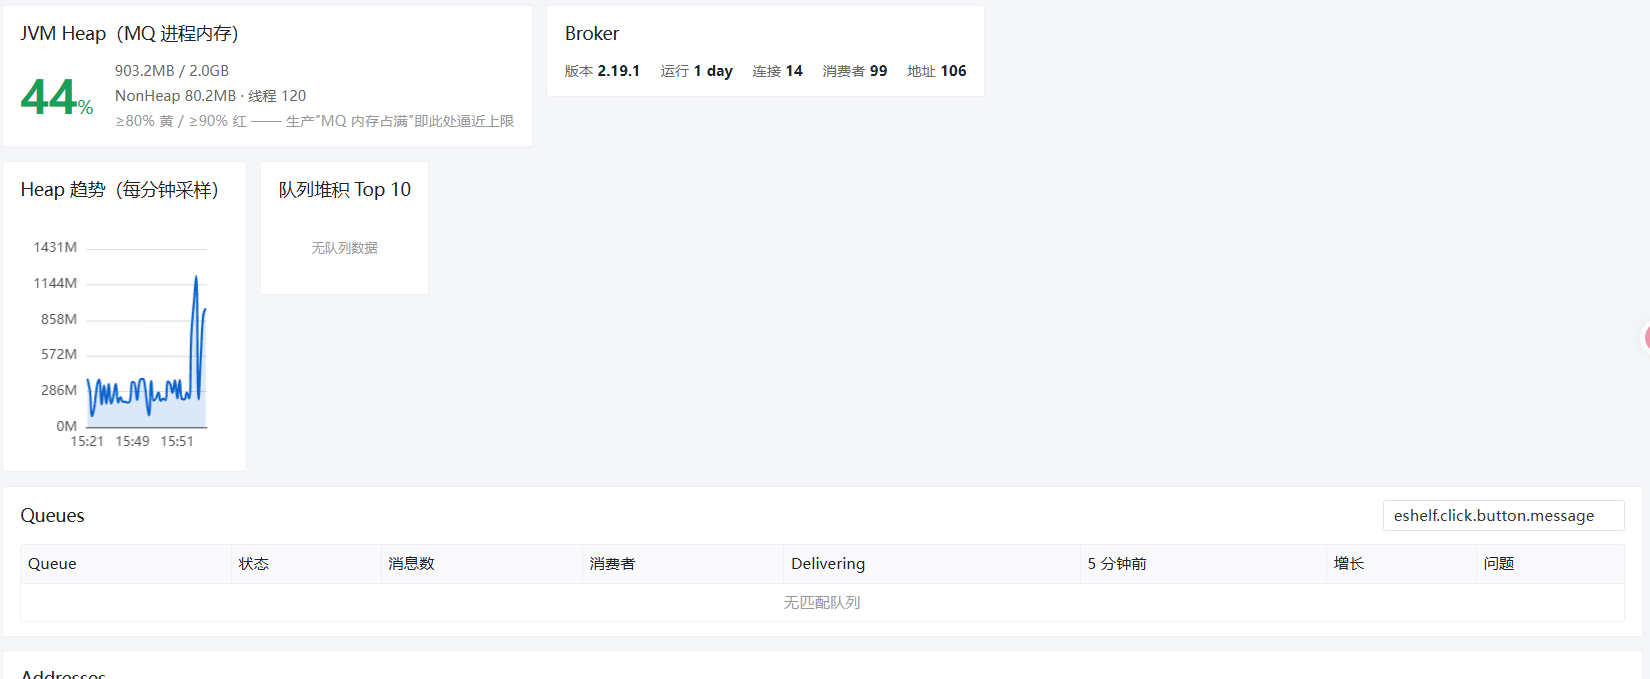
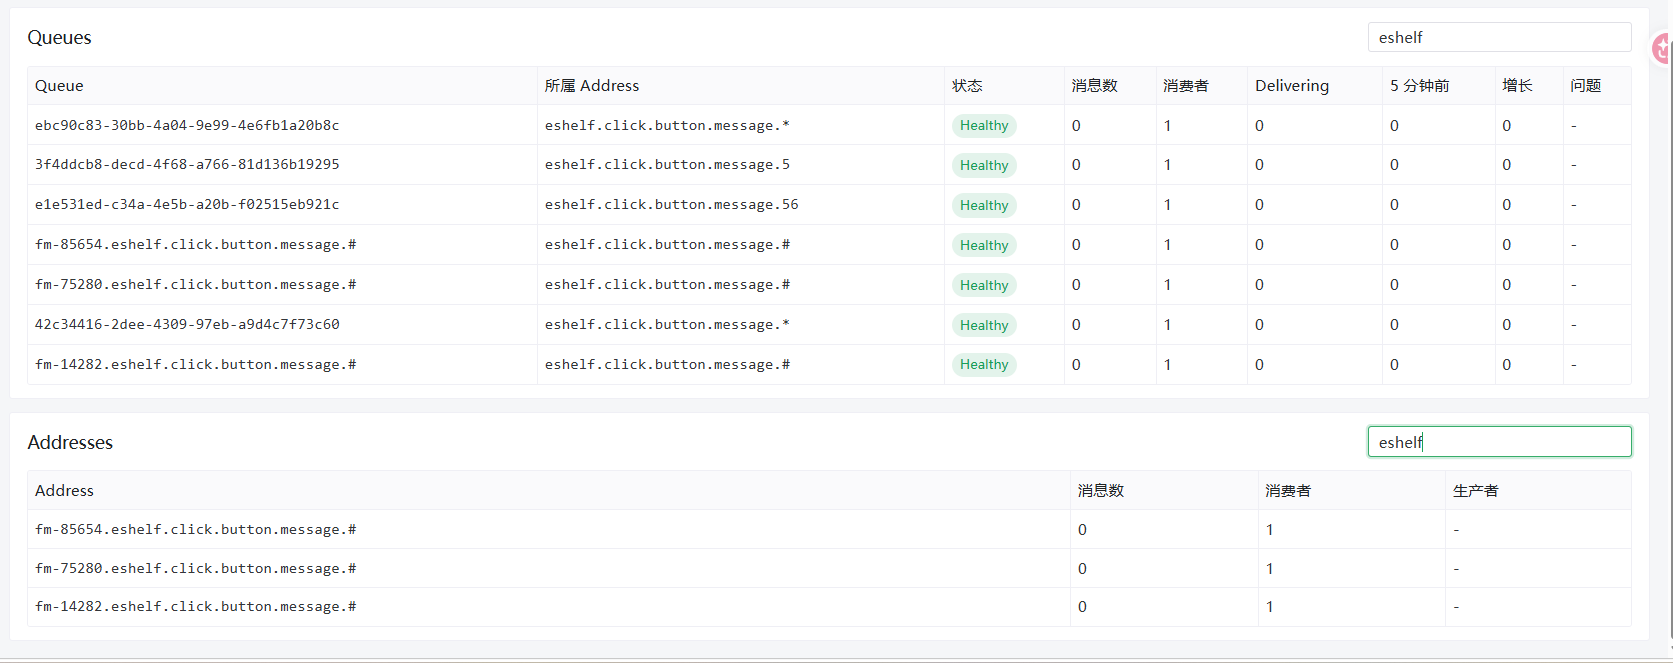
fix(samples): site-scoped sample keys + graceful degradation; mq page trims
- /api/samples returns [] on redis read failure (was 500 on platform-redis
  timeout, breaking server page polling)
- sample keys now site-scoped: server:<site>:<id>, mq:<site>:<id>[:hash] —
  cross-site same-named resource ids no longer pollute each other's trends
- MqView: Addresses card removed (redundant — queue table has 所属 Address
  column); card titles: 'Topics / Queues' + column 'Topic / Queue';
  'JVM Heap（约 5s 采样）' and plain '队列堆积 Top 10'
- user note: 'allen' site DOES have resources named '12' pointing at .12 —
  page data source was correct; manage via 站点管理 → 资源

diff --git a/frontend/src/modules/mq/MqView.vue b/frontend/src/modules/mq/MqView.vue
@@ -5,7 +5,7 @@ import BaseChart from '../../components/BaseChart.vue'
 import StatusBadge from '../../components/StatusBadge.vue'
 import { useSiteStore } from '../../stores/site'
 import { getSamples } from '../overview/api'
-import { mqApi, type AddressRow, type MqOverview, type QueueRow } from './api'
+import { mqApi, type MqOverview, type QueueRow } from './api'
 
 const siteStore = useSiteStore()
 const message = useMessage()
@@ -14,14 +14,12 @@ const instances = ref<Array<{ label: string; value: string }>>([])
 const instanceId = ref<string | null>(null)
 const overview = ref<MqOverview | null>(null)
 const queues = ref<QueueRow[]>([])
-const addresses = ref<AddressRow[]>([])
 const loading = ref(false) // 首次加载（转圈而非白屏）
 const heapSeries = ref<Array<{ ts: number; v: number }>>([])
 const loadError = ref('')
 const queuesError = ref('')
-const addressesError = ref('')
 
-/** 轮询分层：overview/heap 轻量 3s；queues/addresses 响应大，15s + 手动刷新 */
+/** 轮询分层：overview/heap 轻量 3s；queues 响应大，15s + 手动刷新 */
 async function loadLight(toastOnFail = false) {
   const siteId = siteStore.currentSiteId
   if (!siteId || !instanceId.value) return
@@ -29,7 +27,8 @@ async function loadLight(toastOnFail = false) {
     const o = await mqApi.overview(siteId, instanceId.value)
     overview.value = o
     loadError.value = ''
-    getSamples(instanceId.value, 'heap').then((s) => (heapSeries.value = [...s].reverse())).catch(() => {})
+    getSamples(`mq:${siteId}:${instanceId.value}`, 'heap')
+      .then((s) => (heapSeries.value = [...s].reverse())).catch(() => {})
   } catch (e) {
     overview.value = null
     loadError.value = (e as Error).message
@@ -47,14 +46,6 @@ async function loadHeavy() {
     queues.value = []
     queuesError.value = (e as Error).message
     message.error(`Queues 读取失败：${queuesError.value}`)
-  }
-  try {
-    addresses.value = await mqApi.addresses(siteId, instanceId.value)
-    addressesError.value = ''
-  } catch (e) {
-    addresses.value = []
-    addressesError.value = (e as Error).message
-    message.error(`Addresses 读取失败：${addressesError.value}`)
   }
 }
 
@@ -77,14 +68,14 @@ async function loadInstances() {
   }
 }
 
-/** 手动/首次：全量刷新（overview + queues + addresses，失败弹 toast） */
+/** 手动/首次：全量刷新（overview + queues，失败弹 toast） */
 async function load() {
   await loadLight(true)
   await loadHeavy()
 }
 onMounted(loadInstances)
 
-// 轮询分层：overview/heap 轻量 3s；queues/addresses 响应大 15s 一次（页面在场才轮询）
+// 轮询分层：overview/heap 轻量 3s；queues 响应大 15s 一次（页面在场才轮询）
 let pollTimer: number | null = null
 let heavyTick = 0
 
@@ -125,9 +116,8 @@ watch(() => siteStore.currentSiteId, () => {
 })
 watch(instanceId, load)
 
-// ---------- 搜索（Queues 匹配队列名+所属 Address；Addresses 匹配地址名） ----------
+// ---------- 搜索（匹配队列名 + 所属 Address，忽略大小写） ----------
 const queueFilter = ref('')
-const addressFilter = ref('')
 const filteredQueues = computed(() => {
   const needle = queueFilter.value.trim().toLowerCase()
   if (!needle) return queues.value
@@ -136,11 +126,6 @@ const filteredQueues = computed(() => {
       (q.name ?? '').toLowerCase().includes(needle) ||
       (q.address ?? '').toLowerCase().includes(needle),
   )
-})
-const filteredAddresses = computed(() => {
-  const needle = addressFilter.value.trim().toLowerCase()
-  if (!needle) return addresses.value
-  return addresses.value.filter((a) => (a.name ?? '').toLowerCase().includes(needle))
 })
 
 // ---------- 图表 ----------
@@ -259,7 +244,7 @@ const worstQueueStatus = computed(() => {
     <template v-else-if="overview">
       <div class="row">
         <!-- Heap：生产 MQ 内存问题核心指标，突出显示 + 阈值着色 -->
-        <n-card size="small" class="grow-2" title="JVM Heap（MQ 进程内存）">
+        <n-card size="small" class="grow-2" title="JVM Heap（约 5s 采样）">
           <div class="heap-row">
             <div class="heap-big" :style="{ color: pctColor(heapPct) }">
               {{ heapPct ?? '?' }}<span class="unit">%</span>
@@ -289,13 +274,13 @@ const worstQueueStatus = computed(() => {
             采样收集中，几秒后出现趋势线
           </div>
         </n-card>
-        <n-card size="small" class="grow-1" title="队列堆积 Top 10（消息数最多的队列）">
+        <n-card size="small" class="grow-1" title="队列堆积 Top 10">
           <base-chart v-if="queues.length" :option="topQueuesOption" height="300px" />
           <div v-else style="color: #999; font-size: 12px; padding: 40px 0; text-align: center">无队列数据</div>
         </n-card>
       </div>
 
-      <n-card size="small" title="Queues">
+      <n-card size="small" title="Topics / Queues">
         <template #header-extra>
           <n-input v-model:value="queueFilter" size="small" style="width: 240px"
             placeholder="模糊搜索队列名或 Address" />
@@ -304,7 +289,7 @@ const worstQueueStatus = computed(() => {
         <n-table :single-line="false" size="small">
           <thead>
             <tr>
-              <th>Queue</th><th>所属 Address</th><th>状态</th><th>消息数</th><th>消费者</th>
+              <th>Topic / Queue</th><th>所属 Address</th><th>状态</th><th>消息数</th><th>消费者</th>
               <th>Delivering</th><th>5 分钟前</th><th>增长</th><th>问题</th>
             </tr>
           </thead>
@@ -327,27 +312,6 @@ const worstQueueStatus = computed(() => {
             </tr>
             <tr v-if="!filteredQueues.length">
               <td colspan="9" style="text-align: center; color: #999">无匹配队列</td>
-            </tr>
-          </tbody>
-        </n-table>
-      </n-card>
-
-      <n-card size="small" title="Addresses">
-        <template #header-extra>
-          <n-input v-model:value="addressFilter" size="small" style="width: 240px"
-            placeholder="模糊搜索 Address / topic" />
-        </template>
-        <div v-if="addressesError" class="pane-error">Addresses 读取失败：{{ addressesError }}（每 15s 自动重试）</div>
-        <n-table :single-line="false" size="small">
-          <thead>
-            <tr><th>Address</th><th>消息数</th><th>消费者</th><th>生产者</th></tr>
-          </thead>
-          <tbody>
-            <tr v-for="a in filteredAddresses" :key="a.name">
-              <td class="mono">{{ a.name }}</td>
-              <td>{{ a.message_count ?? '-' }}</td>
-              <td>{{ a.consumer_count ?? '-' }}</td>
-              <td>{{ a.producer_count ?? '-' }}</td>
             </tr>
           </tbody>
         </n-table>

diff --git a/frontend/src/modules/server/ServerView.vue b/frontend/src/modules/server/ServerView.vue
@@ -57,8 +57,8 @@ async function load(silent = false) {
     ])
     metrics.value = m
     processes.value = p
-    // 趋势（读取时采样，3s 轮询 = 3s 一个点）
-    const rid = `server:${serverId.value}`
+    // 趋势（读取时采样，3s 轮询 = 3s 一个点；rid 带站点维度）
+    const rid = `server:${siteStore.currentSiteId}:${serverId.value}`
     getSamples(rid, 'cpu').then((s) => (cpuSeries.value = [...s].reverse())).catch(() => {})
     getSamples(rid, 'mem').then((s) => (memSeries.value = [...s].reverse())).catch(() => {})
   } catch (e) {

diff --git a/backend/app/modules/mq/service.py b/backend/app/modules/mq/service.py
@@ -44,7 +44,7 @@ async def get_overview(site_id: str, mq_id: str) -> dict[str, Any]:
             # Heap 采样（趋势图数据源）：仅真实读取时记录，缓存命中不重复采样
             heap = overview.get("jvm", {}).get("heap_used")
             if isinstance(heap, (int, float)):
-                await sampling.push_sample(mq_id, "heap", heap)
+                await sampling.push_sample(f"mq:{site_id}:{mq_id}", "heap", heap)
             return overview
 
     return await cached(f"ops:cache:mq:{mq_id}:overview", CACHE_TTL, with_retry(factory))
@@ -62,7 +62,7 @@ async def get_queues(site_id: str, mq_id: str) -> list[dict[str, Any]]:
     queues = await cached(f"ops:cache:mq:{mq_id}:queues", CACHE_TTL, with_retry(factory))
     for q in queues:
         name = q.get("name") or ""
-        series = _series_key(mq_id, name)
+        series = _series_key(site_id, mq_id, name)
         old = await sampling.value_minutes_ago(series, "backlog", minutes=5)
         current = q.get("message_count")
         if isinstance(current, (int, float)):
@@ -74,11 +74,11 @@ async def get_queues(site_id: str, mq_id: str) -> list[dict[str, Any]]:
     return queues
 
 
-def _series_key(mq_id: str, queue_name: str) -> str:
-    # queue 名可能含特殊字符，用 hash 化避免 key 结构被污染
+def _series_key(site_id: str, mq_id: str, queue_name: str) -> str:
+    # queue 名可能含特殊字符，用 hash 化避免 key 结构被污染；带站点维度防跨站同名
     import hashlib
 
-    return f"{mq_id}:{hashlib.md5(queue_name.encode()).hexdigest()[:10]}"
+    return f"mq:{site_id}:{mq_id}:{hashlib.md5(queue_name.encode()).hexdigest()[:10]}"
 
 
 def diagnose_queue(q: dict[str, Any]) -> dict[str, Any]:

diff --git a/backend/app/modules/server/service.py b/backend/app/modules/server/service.py
@@ -45,17 +45,19 @@ async def get_metrics(site_id: str, server_id: str) -> dict[str, Any]:
         provider = _build_provider(config)
         return provider.get_metrics()
 
-    # 采样挂在真实读取上（前端 5s 轮询驱动，趋势点随页面在场密度变高）
+    # 采样挂在真实读取上（前端 3s 轮询驱动，趋势点随页面在场密度变高）
+    # key 带站点维度：不同站点的同名资源 id 互不污染
     async def sampled_factory():
         metrics = await factory()
         cpu = metrics.get("cpu", {}).get("usage")
         mem = metrics.get("memory", {})
         mem_pct = (round(mem["used"] / mem["total"] * 100, 1)
                    if mem.get("total") and mem.get("used") is not None else None)
+        rid = f"server:{site_id}:{server_id}"
         if isinstance(cpu, (int, float)):
-            await sampling.push_sample(f"server:{server_id}", "cpu", cpu)
+            await sampling.push_sample(rid, "cpu", cpu)
         if isinstance(mem_pct, (int, float)):
-            await sampling.push_sample(f"server:{server_id}", "mem", mem_pct)
+            await sampling.push_sample(rid, "mem", mem_pct)
         return metrics
 
     metrics = await _with_cache(site_id, server_id, "metrics", sampled_factory)

diff --git a/backend/app/modules/overview/api.py b/backend/app/modules/overview/api.py
@@ -26,10 +26,13 @@ async def refresh(site_id: str) -> dict:
 
 @router.get("/samples")
 async def get_samples(rid: str, series: str, limit: int = 60) -> list[dict]:
-    """采样序列查询（趋势图数据源）：rid 形如 server:s1 / redis:r1 / <mq_id>。"""
+    """采样序列查询（趋势图数据源）：rid 形如 server:<site>:<id> / mq:<site>:<id>。"""
     from backend.app.core.sampling import read_series
 
     # 仅允许安全的 key 组成部分，防止拼出任意 Redis key
     if not rid or not series or any(c in rid + series for c in " {}*?\0\n"):
         raise HTTPException(status_code=400, detail="invalid rid/series")
-    return await read_series(rid, series, limit)
+    try:
+        return await read_series(rid, series, limit)
+    except Exception:  # noqa: BLE001 - 采样读失败降级为空（趋势图缺数据不该 500）
+        return []
